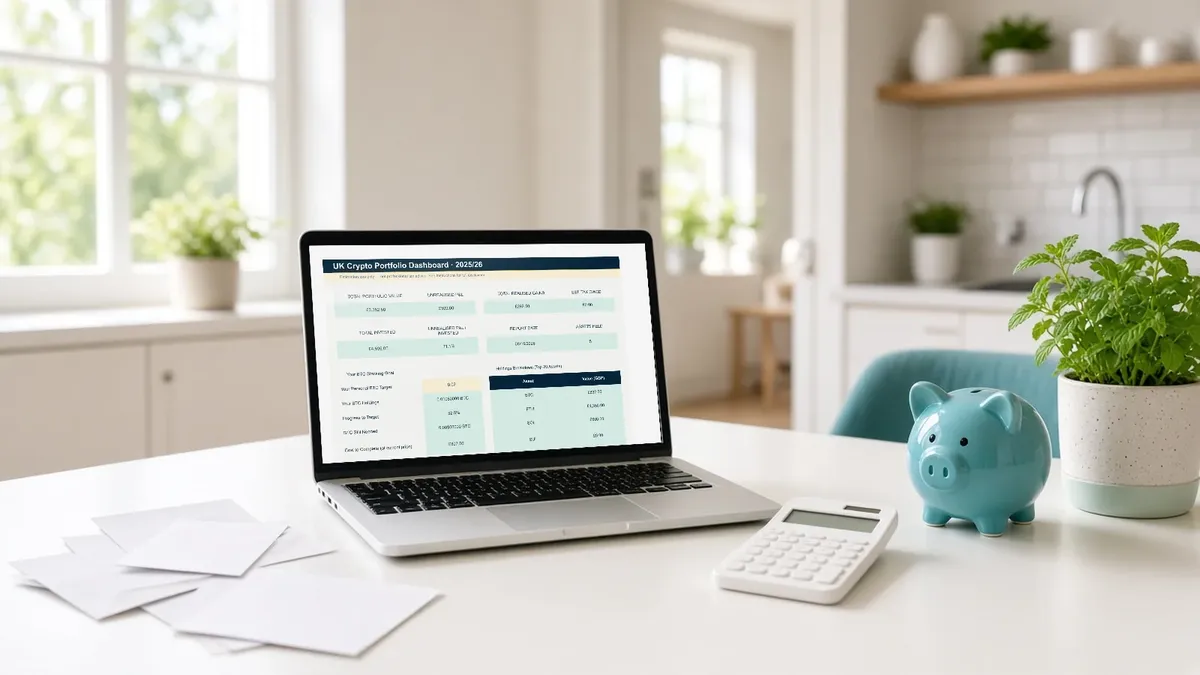
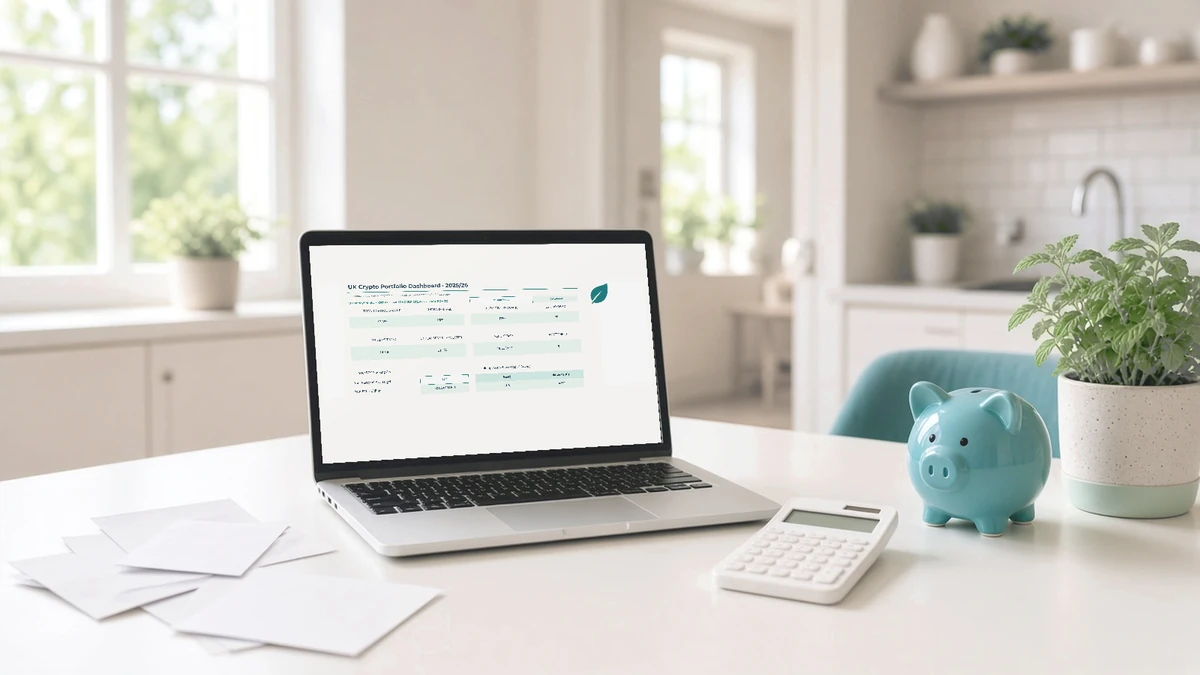
Rebuild crypto Section 104 page hero (brand-safe)
Replace the gold-failing lifestyle header with Nia's rebuilt
1200×675 WebP (official goldscan 0.000%). Cache-bust with ?v=2.
Square card, OG and in-guide images 1–2 are unchanged.

diff --git a/src/lib/guides.ts b/src/lib/guides.ts
@@ -848,7 +848,10 @@ for (const g of guides) {
   if (v) Object.assign(g, v);
   if (!g.headerImage && NIA_HEADERS[g.slug]) {
     const bust =
-      g.slug === "help-to-save-deposit-bonus-tracker" ? "?v=2" : "";
+      g.slug === "help-to-save-deposit-bonus-tracker" ||
+      g.slug === "uk-crypto-section-104"
+        ? "?v=2"
+        : "";
     g.headerImage = {
       src: `/visual/guides/${g.slug}.webp${bust}`,
       alt: `A ${NIA_HEADERS[g.slug]} in Google Sheets on a laptop at home, example data shown`,
